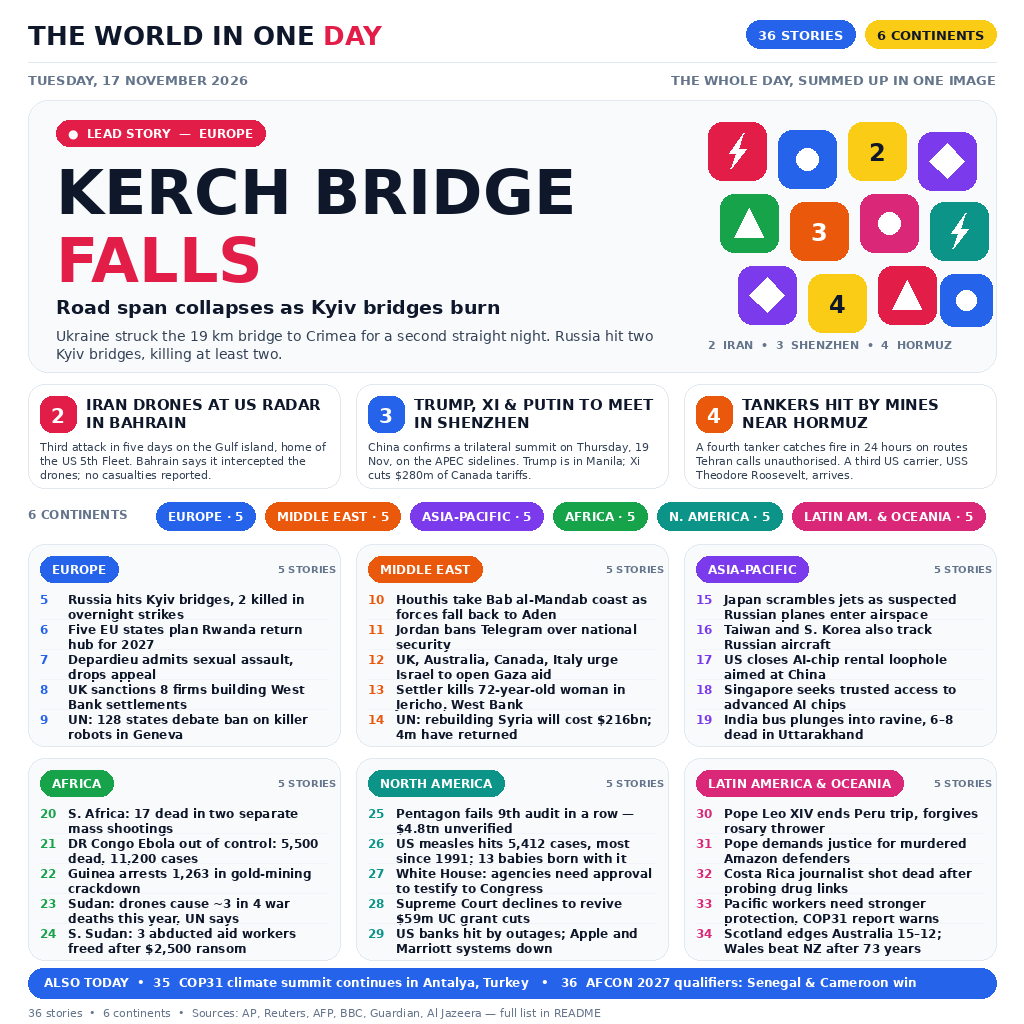
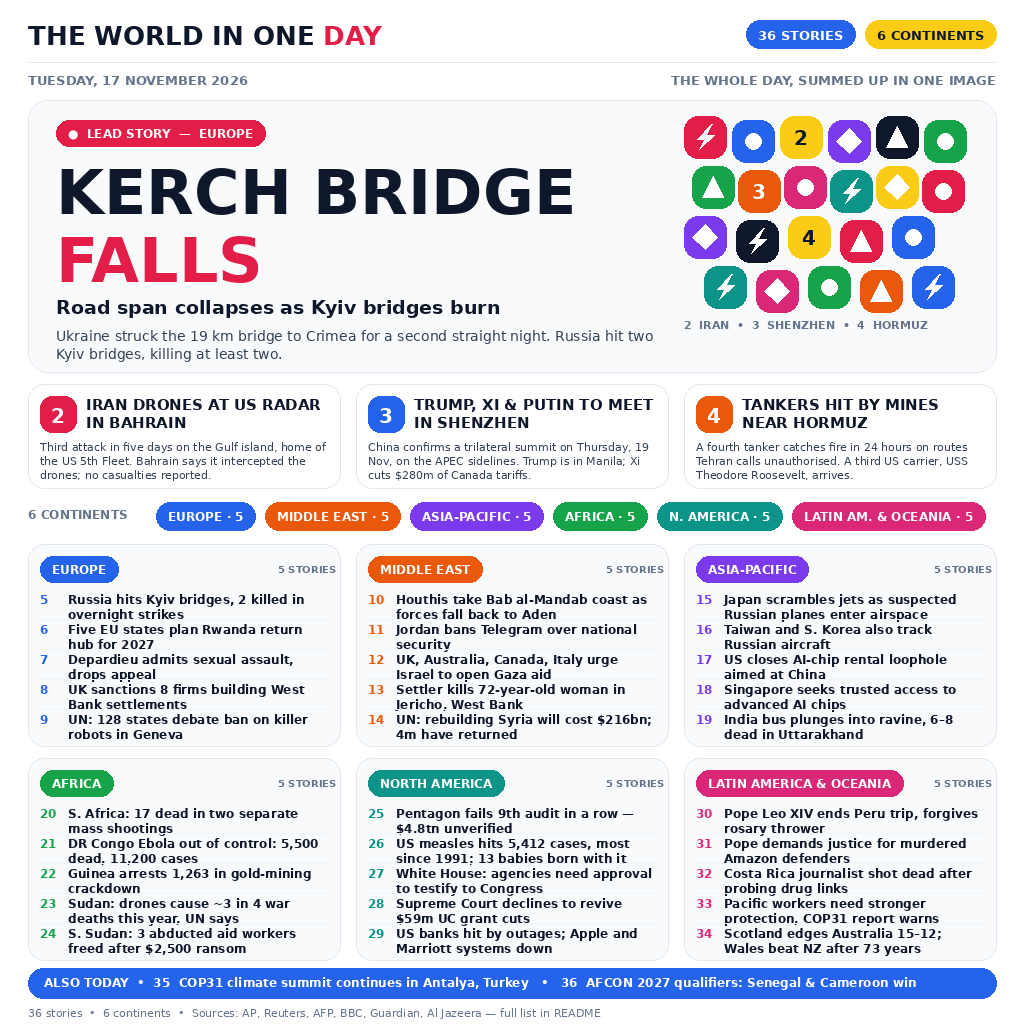
v2.1: hero tile cloud — 22 staggered tiles like the reference (was 12 in a grid)

Changed region(s): [[0.6562, 0.0938, 0.9688, 0.3438]]

diff --git a/render.py b/render.py
@@ -143,31 +143,44 @@ def main():
     draw_wrapped(d, px, hy0 + 228, lead, F(SANS, 14), 600, fill=GREY_D, lh=18, max_lines=2)
 
     # hero right: scatter of colourful tiles (the reference's icon field)
-    tx0, ty0 = hx1 - 288, hy0 + 22
+    tx0, ty0 = hx1 - 312, hy0 + 16
+    # ~22 tiles in a loose staggered cloud (reference: denser top-right,
+    # sparser bottom). Fixed jitter table -> deterministic, no randomness.
+    BLACK = (15, 23, 42)
     tiles = [
         # (dx, dy, size, color, kind, label)
-        (0, 0, 58, RED, "bolt", None),
-        (70, 8, 58, BLUE, "circle", None),
-        (140, 0, 58, YELLOW, "num", "2"),
-        (210, 10, 58, C_ASIA, "diamond", None),
-        (12, 72, 58, C_AFRICA, "triangle", None),
-        (82, 80, 58, C_MIDEAST, "num", "3"),
-        (152, 72, 58, C_LATAM, "circle", None),
-        (222, 80, 58, C_NAMER, "bolt", None),
-        (30, 144, 58, C_ASIA, "diamond", None),
-        (100, 152, 58, YELLOW, "num", "4"),
-        (170, 144, 58, RED, "triangle", None),
-        (232, 152, 52, BLUE, "circle", None),
+        (0, 0, 42, RED, "bolt", None),
+        (48, 4, 42, BLUE, "circle", None),
+        (96, 0, 42, YELLOW, "num", "2"),
+        (144, 4, 42, C_ASIA, "diamond", None),
+        (192, 0, 42, BLACK, "triangle", None),
+        (240, 4, 42, C_AFRICA, "circle", None),
+        (8, 50, 42, C_AFRICA, "triangle", None),
+        (54, 54, 42, C_MIDEAST, "num", "3"),
+        (100, 50, 42, C_LATAM, "circle", None),
+        (146, 54, 42, C_NAMER, "bolt", None),
+        (192, 50, 42, YELLOW, "diamond", None),
+        (238, 54, 42, RED, "circle", None),
+        (0, 100, 42, C_ASIA, "diamond", None),
+        (52, 104, 42, BLACK, "bolt", None),
+        (104, 100, 42, YELLOW, "num", "4"),
+        (156, 104, 42, RED, "triangle", None),
+        (208, 100, 42, BLUE, "circle", None),
+        (20, 150, 42, C_NAMER, "bolt", None),
+        (72, 154, 42, C_LATAM, "diamond", None),
+        (124, 150, 42, C_AFRICA, "circle", None),
+        (176, 154, 42, C_MIDEAST, "triangle", None),
+        (228, 150, 42, BLUE, "bolt", None),
     ]
-    for dx, dy, s, col, kind, label in tiles:
-        tile(d, tx0 + dx, ty0 + dy, s, col, kind)
+    for dx, dy, s_, col, kind, label in tiles:
+        tile(d, tx0 + dx, ty0 + dy, s_, col, kind)
         if label:
-            f_n = F(SANS_B, 24)
+            f_n = F(SANS_B, 20)
             tw2 = d.textlength(label, font=f_n)
             num_col = INK if col == YELLOW else WHITE
-            d.text((tx0 + dx + (s - tw2) / 2, ty0 + dy + s // 2 - 13),
+            d.text((tx0 + dx + (s_ - tw2) / 2, ty0 + dy + s_ // 2 - 11),
                    label, font=f_n, fill=num_col)
-    d.text((tx0, ty0 + 216), "2  IRAN  •  3  SHENZHEN  •  4  HORMUZ",
+    d.text((tx0, ty0 + 202), "2  IRAN  •  3  SHENZHEN  •  4  HORMUZ",
            font=F(SANS_B, 11), fill=GREY)
 
     # ---- Top 3 cards ----
